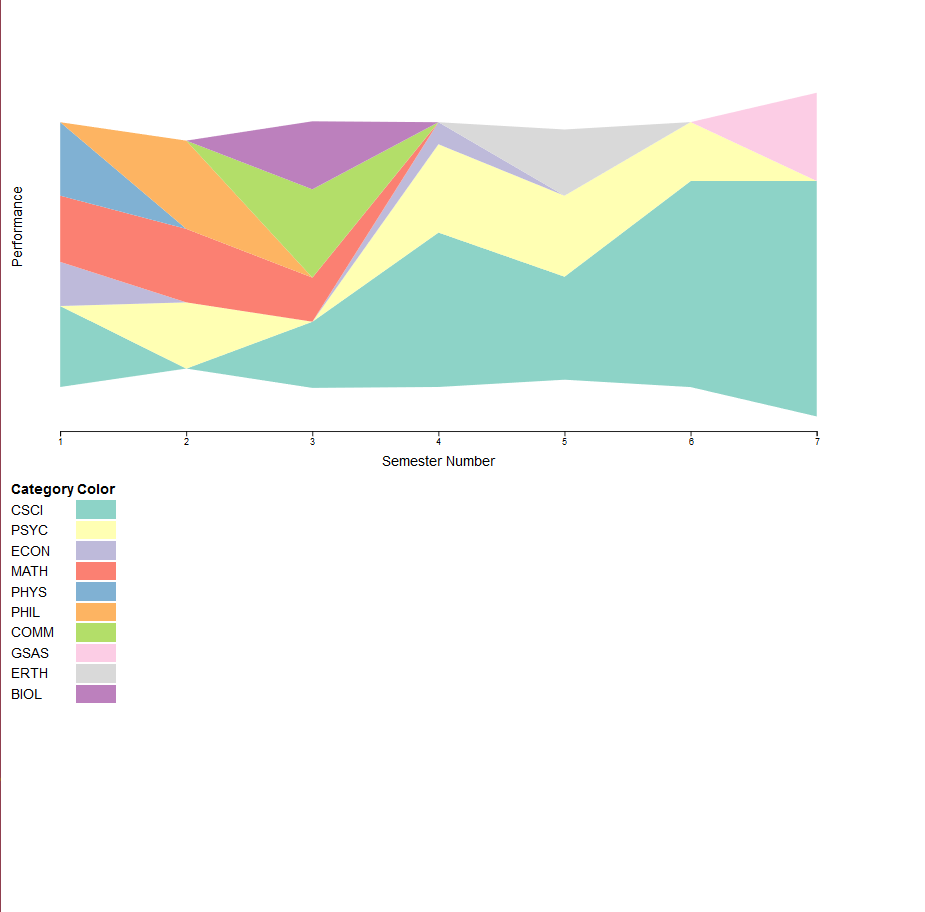
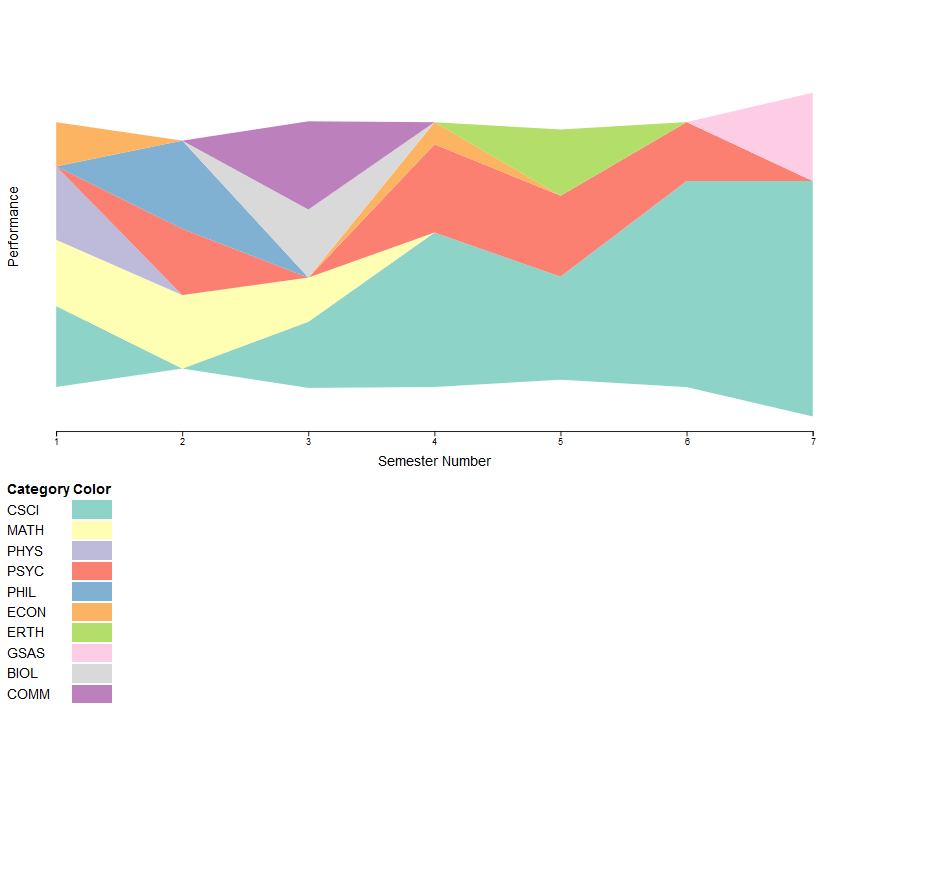
stream changes

Changed region(s): [[0.0605, 0.0906, 0.9081, 0.5436], [0.0, 0.5134, 0.1514, 0.7852], [0.0, 0.1812, 0.0303, 0.302]]

diff --git a/stream.html b/stream.html
@@ -34,7 +34,7 @@
             "translate(" + margin.left + "," + margin.top + ")");
 
     // Read data from github repo
-    d3.csv("https://raw.githubusercontent.com/alanjoy396/Interactive-Visualization-HW6/master/hw6_data_alan_stream.csv", function(data) {
+    d3.csv("https://raw.githubusercontent.com/alanjoy396/Interactive-Visualization-HW6/master/HW6_Kat_Data_Stream.csv", function(data) {
 
         // List of semsters, header of the csv file
         var keys = data.columns.slice(2)
